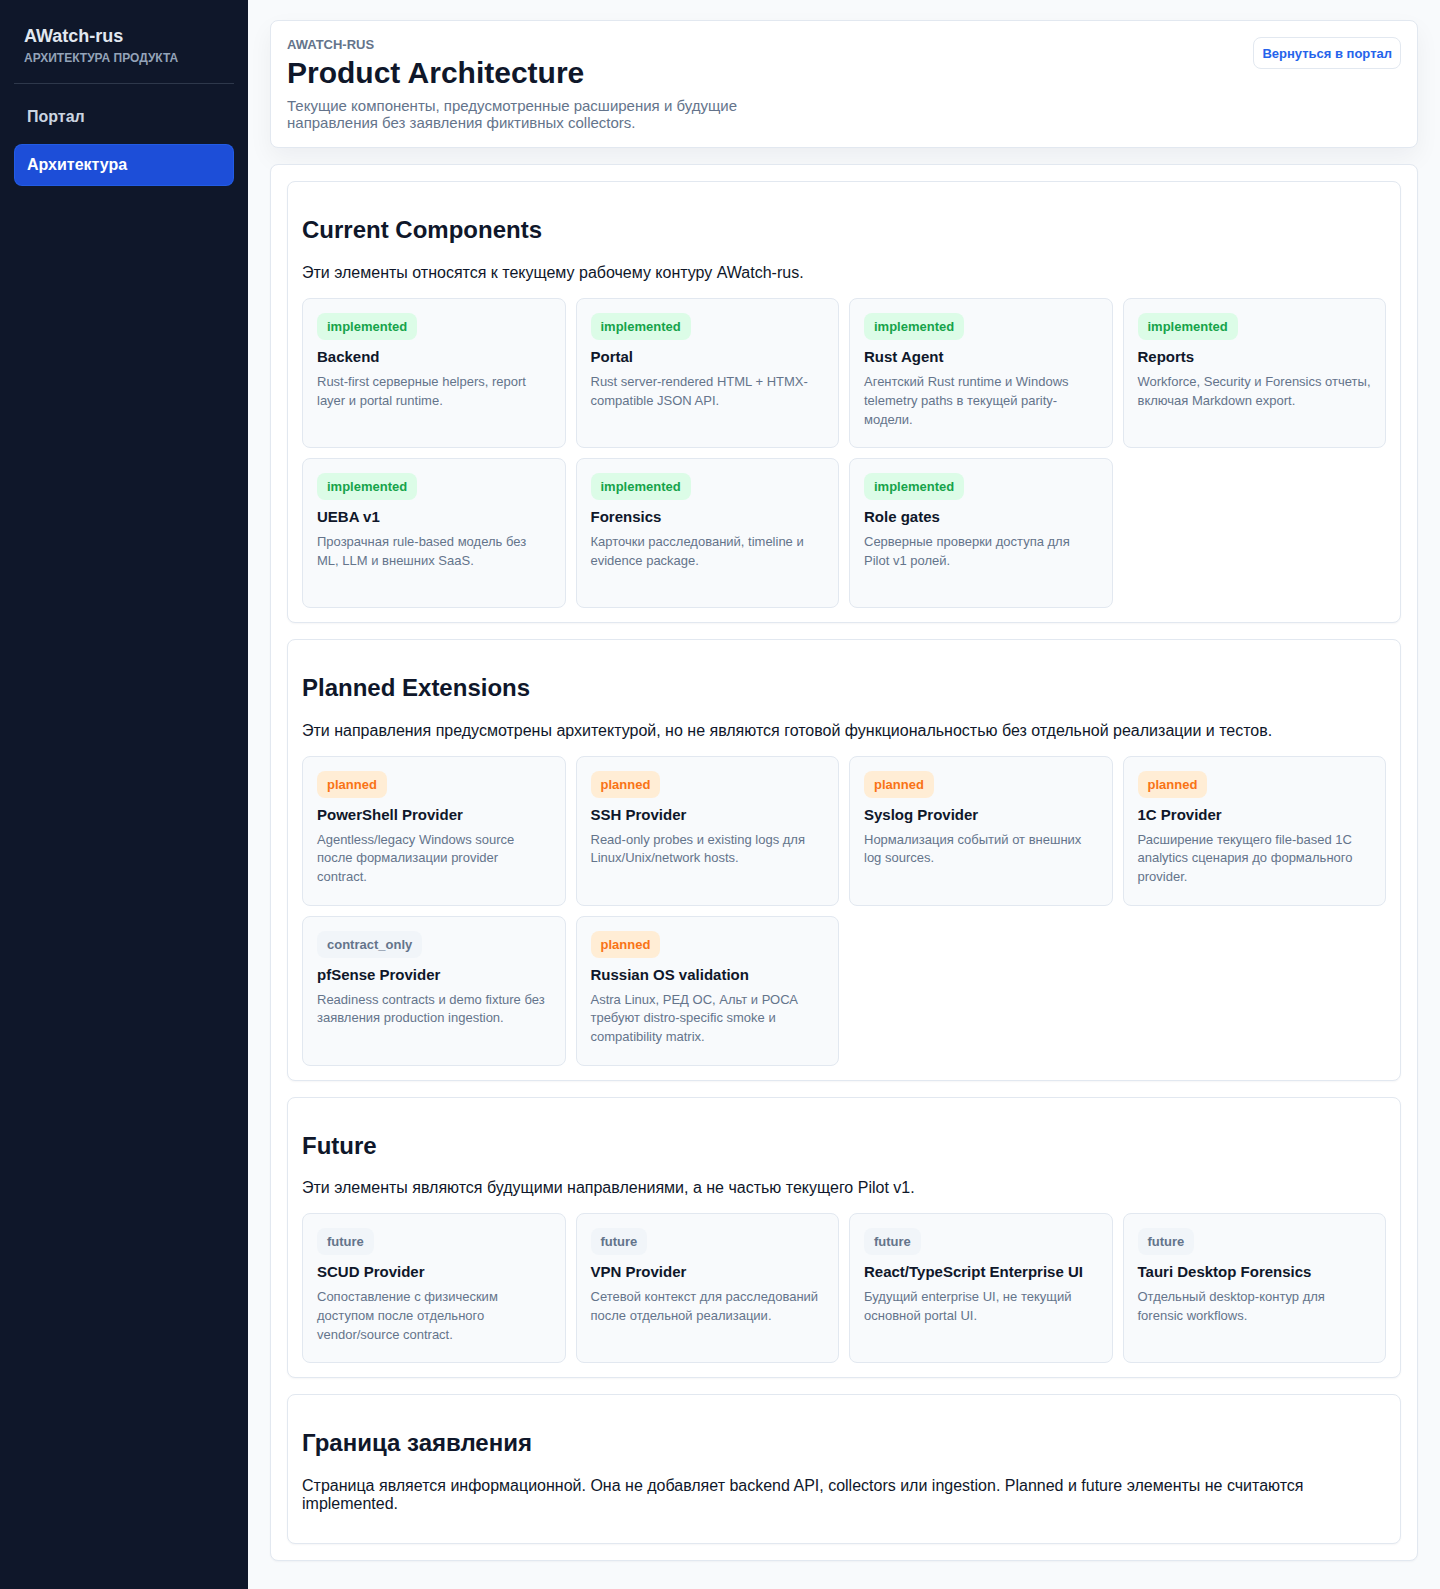
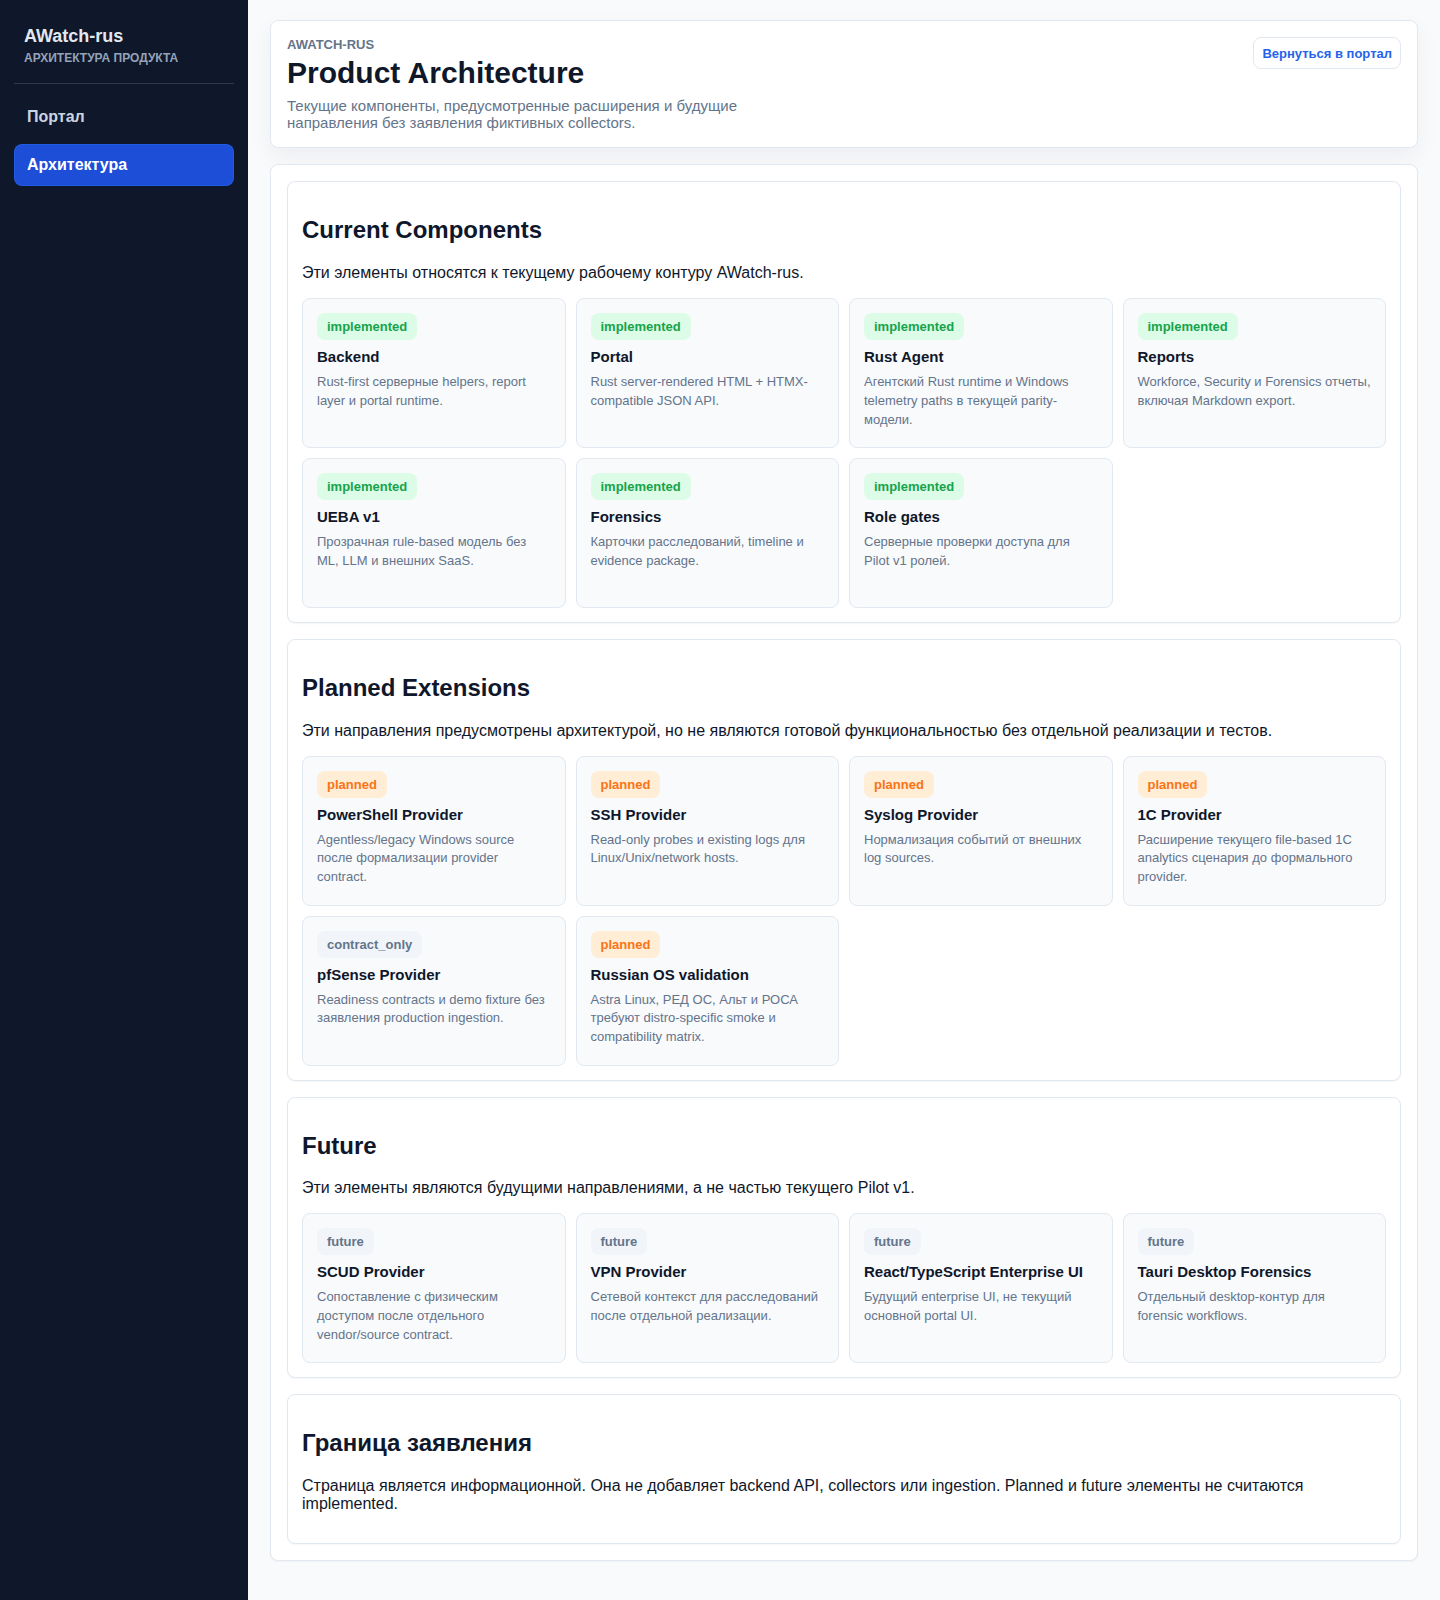
fix(portal): align deployed role smoke and screenshot

diff --git a/adk-rust/crates/detmir-portal/src/static/app.js b/adk-rust/crates/detmir-portal/src/static/app.js
@@ -261,27 +261,6 @@ function setViewMode(mode) {
     setTab("operator");
     return;
   }
-  if (state.operatorData && state.reports) {
-    const content = document.getElementById("content");
-    if (content) {
-      content.innerHTML = renderOperator(state.operatorData, state.reports, { cases: state.cases });
-    }
-    setLoadStatus("READY", "Данные готовы", 100);
-    consumePendingScroll();
-    if (mode === "security" && !state.cases) {
-      loadJson("/cases")
-        .then(cases => {
-          state.cases = cases;
-          if (currentViewMode() === "security" && state.tab === "operator" && content) {
-            content.innerHTML = renderOperator(state.operatorData, state.reports, { cases: state.cases });
-          }
-        })
-        .catch(() => {
-          state.cases = { ok: false, cases: [] };
-        });
-    }
-    return;
-  }
   refresh({ stage: VIEW_MODES[mode].stage });
 }
 
@@ -479,7 +458,11 @@ function hasTabData(tab, payload) {
     const report = payload.report || {};
     return (Array.isArray(report.kpis) && report.kpis.length > 0)
       || (Array.isArray(report.executive_points) && report.executive_points.length > 0)
-      || (Array.isArray(payload.data?.workforce) && payload.data.workforce.length > 0);
+      || (Array.isArray(payload.data?.workforce) && payload.data.workforce.length > 0)
+      || Boolean(report.workforce && Object.keys(report.workforce).length > 0)
+      || Boolean(report.security_events_summary)
+      || (Array.isArray(report.risk_incident_candidates) && report.risk_incident_candidates.length > 0)
+      || (Array.isArray(report.forensics?.investigations) && report.forensics.investigations.length > 0);
   }
   if (tab === "employees") {
     return Array.isArray(payload.data?.workforce) && payload.data.workforce.length > 0;
@@ -2313,6 +2296,14 @@ function renderSecurityEventsSummary(summary, options = {}) {
   const title = options.compact
     ? "События безопасности"
     : "События безопасности за 24 часа";
+  const compactStateText = disabled && options.compact
+    ? "Детализация скрыта для роли"
+    : stateText;
+  const compactModeText = disabled && options.compact
+    ? "Без ИБ-детализации"
+    : disabled
+      ? localModeText
+      : "Агрегированная сводка";
   const subtitle = disabled
     ? `${stateText}. ${localModeText}.`
     : fallback
@@ -2328,14 +2319,14 @@ function renderSecurityEventsSummary(summary, options = {}) {
         <div class="section-head">
           <div>
             <h3 ${tooltip("Краткая управленческая сводка доступности событий безопасности за последние 24 часа.")}>${ui(title)}</h3>
-            <p class="muted">${ui(stateText)}</p>
+            <p class="muted">${ui(compactStateText)}</p>
           </div>
           <span class="badge ${statusClass(status)}">${ui(status)}</span>
         </div>
         <div class="quality-grid">
-          <div><span class="muted">Состояние</span><strong>${ui(stateText)}</strong></div>
+          <div><span class="muted">Состояние</span><strong>${ui(compactStateText)}</strong></div>
           <div><span class="muted">Событий за 24 часа</span><strong>${ui(s.events_24h ?? 0)}</strong></div>
-          <div><span class="muted">Режим</span><strong>${ui(disabled ? localModeText : "Агрегированная сводка")}</strong></div>
+          <div><span class="muted">Режим</span><strong>${ui(compactModeText)}</strong></div>
         </div>
       </section>
     `;
